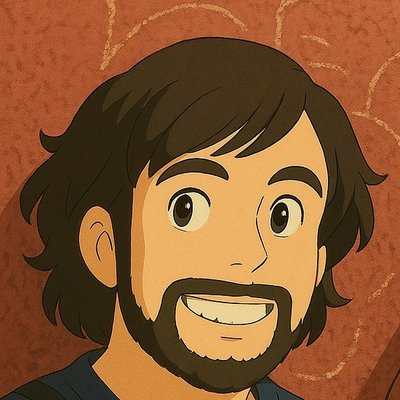
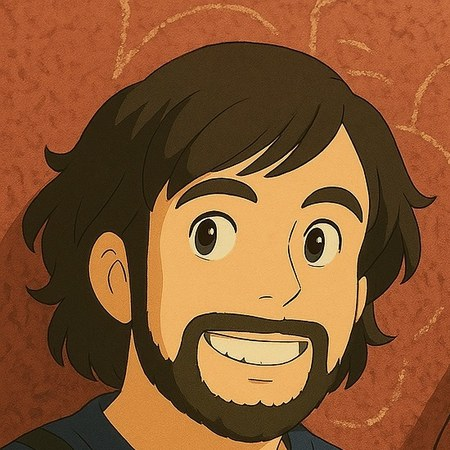
Add profile photo

diff --git a/index.html b/index.html
@@ -67,13 +67,13 @@
   header{padding:88px 0 56px;position:relative;overflow:hidden}
   .hero-top{display:flex;align-items:center;justify-content:space-between;gap:32px;margin-bottom:26px}
   .avatar{
-    width:180px;height:180px;flex-shrink:0;border-radius:50%;
+    width:200px;height:200px;flex-shrink:0;border-radius:50%;
     object-fit:cover;border:3px solid var(--line);
     box-shadow:0 6px 22px rgba(0,0,0,.12);
   }
   @media(max-width:620px){
     .hero-top{flex-direction:column-reverse;align-items:flex-start;gap:20px}
-    .avatar{width:130px;height:130px}
+    .avatar{width:140px;height:140px}
   }
   .eyebrow{font-family:var(--mono);font-size:.78rem;color:var(--accent);letter-spacing:.08em;margin-bottom:20px}
   h1{
@@ -183,7 +183,7 @@
         <h1>Maximiliano&nbsp;Lioi</h1>
         <p class="role">Data Scientist</p>
       </div>
-      <img class="avatar" src="profile.jpeg" alt="Maximiliano Lioi" width="180" height="180">
+      <img class="avatar" src="profile.jpeg" alt="Maximiliano Lioi" width="200" height="200">
     </div>
     <p class="lede">
       Trabajo en la intersección entre estadística bayesiana, machine learning y
